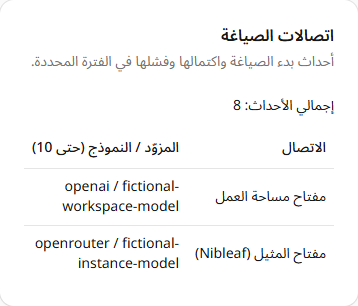
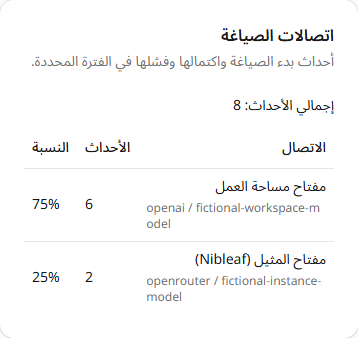
fix(analytics): keep connection shares visible on mobile
Stack provider/model metadata under each connection so event counts and shares remain visible at 390px in Arabic. Record the passing headless viewport assertion.

diff --git a/apps/app/src/components/analytics/insights/drafting-connections.tsx b/apps/app/src/components/analytics/insights/drafting-connections.tsx
@@ -24,17 +24,19 @@ export function DraftingConnections({
       <SimpleTable
         caption={t('analytics.drafting.title')}
         columns={[
-          { key: 'connection', header: t('analytics.drafting.connection'), cell: (row: Connection) => t(`analytics.drafting.${row.connection}`) },
           {
-            key: 'models',
-            header: t('analytics.drafting.models'),
+            key: 'connection',
+            header: t('analytics.drafting.connection'),
             cell: (row: Connection) => (
-              <span className="whitespace-normal break-words" dir="ltr">
-                {row.models
-                  .map(([provider, model]) => [provider, model].filter(Boolean).join(' / '))
-                  .filter(Boolean)
-                  .join(', ') || format.count(null)}
-              </span>
+              <div className="max-w-48 whitespace-normal">
+                <span>{t(`analytics.drafting.${row.connection}`)}</span>
+                <p className="mt-1 break-all text-muted-foreground text-xs" dir="ltr" title={t('analytics.drafting.models')}>
+                  {row.models
+                    .map(([provider, model]) => [provider, model].filter(Boolean).join(' / '))
+                    .filter(Boolean)
+                    .join(', ') || format.count(null)}
+                </p>
+              </div>
             ),
           },
           { key: 'events', header: t('analytics.drafting.events'), cell: (row: Connection) => format.count(row.events), numeric: true },

diff --git a/apps/app/src/components/analytics/insights/insights-sections.test.tsx b/apps/app/src/components/analytics/insights/insights-sections.test.tsx
@@ -656,7 +656,7 @@ describe('First load', () => {
     ],
     ['search', () => mocks.search_.mockReturnValue(loading), () => <SearchSection />, { tiles: 6, charts: 1, lists: 0, tables: [5, 4, 2] }],
     ['feedback', () => mocks.feedback.mockReturnValue(loading), () => <FeedbackSection />, { tiles: 4, charts: 1, lists: 0, tables: [5] }],
-    ['AI visibility', () => mocks.ai.mockReturnValue(loading), () => <AiSection />, { tiles: 4, charts: 2, lists: 3, tables: [4, 6, 4] }],
+    ['AI visibility', () => mocks.ai.mockReturnValue(loading), () => <AiSection />, { tiles: 4, charts: 2, lists: 3, tables: [3, 6, 4] }],
     [
       'performance',
       () => mocks.performance.mockReturnValue(loading),
